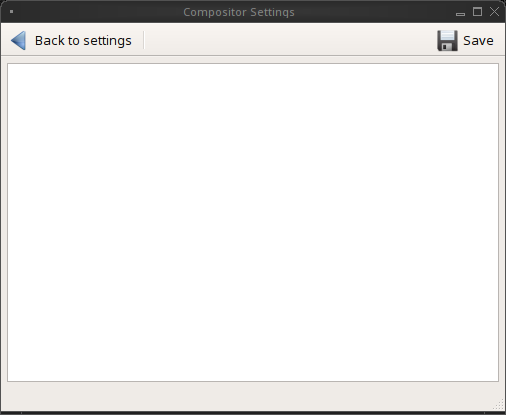
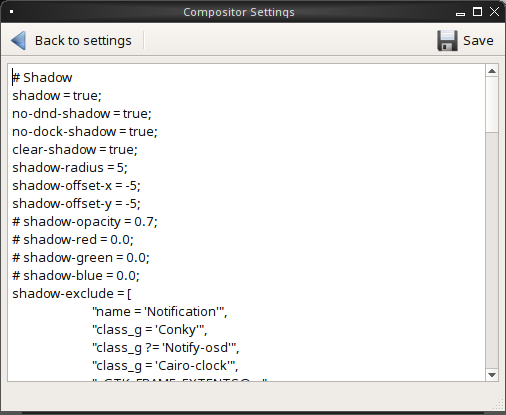
Final review luminaconfig.rst & - Reviewed luminaconfig.rst with Ken. - Made numerous accuracy and clarity changes. - Updated lumina28.png to reflect the compositor more clearly.

diff --git a/1.0luminadocumentation/luminaconfig.rst b/1.0luminadocumentation/luminaconfig.rst
@@ -10,7 +10,9 @@ used to configure every aspect of the desktop and is the recommended way
 to make changes. To launch this utility, click the start menu then 
 :menuselection:`Preferences --> Configure Desktop`, right-click the 
 desktop and click :menuselection:`Preferences --> Desktop`, or type 
-:command:`lumina-config` from an xterm.
+:command:`lumina-config` from an xterm. If all those options are 
+unavailable, the "Desktop Configuration" application (under the 
+"Utilities" category) will also open the configuration utility.
 
 .. _lumina3d:
 
@@ -95,10 +97,6 @@ the wallpaper selection drop-down menu.
 
 .. figure:: images/lumina16b.png
    :scale: 100%
-
-.. TODO: Go over Window Effects with Kenny to be sure I updated Lumina 
-   properly (screenshot may be missing some options). image: lumina28 
-   can be modified without archival.
    
 The "Window Effects" option, shown in 
 :numref:`Figure %s: Window Effects <lumina28>`, is used to add or alter 
@@ -111,7 +109,7 @@ manually.
 .. figure:: images/lumina28.png
    :scale: 100%
 
-The "Window System" tab, shown in :numref:`Figure %s: Session Window System Tab <lumina22c>`,
+The "Window Manager", shown in :numref:`Figure %s: Session Window Manager <lumina22c>`,
 contains various configuration options for the window manager.
 
 .. _lumina22c:
@@ -137,10 +135,7 @@ Drop-down menus are provided for configuring the following:
 
 The Advanced Editor, seen in :numref:`Figure %s: Window Manager - Advanced <lumina29>`
 , allows you to manually adjust every setting related to the display of 
-windows on your system. For example, if you prefer a particular theme, 
-but don't care for the theme's transparency effects, you can use the 
-Advanced Editor to adjust the specific transparency value to your 
-preference.
+windows on your system.
 
 .. _lumina29:
 
@@ -255,7 +250,7 @@ Interface Configuration
 
 The "Interface Configuration" option, seen here as 
 :numref:`Figure %s: Lumina Interface Configuration <lumina31>`, is used 
-to configure the context (right-click) menu, desktop icons, and floating 
+to configure the context (right-click menu), desktop icons, and floating 
 panels.
 
 .. _lumina31:
@@ -275,9 +270,10 @@ Applications, a Separator, and Settings.
 
 Select "Desktop Icons and Plugins" to modify what appears on the current
 primary desktop. By default, the RSS Reader plugin will appear in the 
-lower right corner. The following options are also available when you 
-right-click an icon on the desktop, allowing you to customize the 
-location and appearance of desktop icons: 
+lower right corner. 
+
+Many customization options are available after right-clicking an icon on
+the desktop: 
 
 * **Start Moving Item:** Click the icon to lock it in place once you 
   have moved it to the desired location.
@@ -379,8 +375,10 @@ The user can select to automatically enable numlock, play chimes when
 Lumina starts or exits, and change the icon that appears in the login 
 menu and the start menu button. There are also options to set the time 
 and date format, as well as the time display format (via drop menu). 
-Buttons are available to reset these options to either the system 
-defaults or Lumina defaults.
+Additionally, a user can reset **all** their desktop settings via 
+:guilabel:`Return to system defaults`, which returns Lumina to the 
+defaults created by the OS, while :guilabel:`Return to Lumina defaults` 
+returns to the Lumina created settings.
 
 The "Localization Settings" option is shown in 
 :numref:`Figure %s: Session Locale Tab <lumina21c>`.
@@ -390,21 +388,16 @@ The "Localization Settings" option is shown in
 .. figure:: images/lumina21c.png
    :scale: 100%
 
-.. TODO: Determine if lumina-i18n is still used is Lumina 1.0.
-
 The lumina-i18n package provides localization files. Once installed, 
 this allows you to customize which locale is used for the various items 
 listed in :numref:`Figure %s: Session Locale Tab <lumina21c>`. To 
 install this package on a PC-BSD or FreeBSD system, use 
 :command:`sudo pkg install lumina-i18n`. On other operating systems, use
-the software management tool that comes with the operating system. If 
-the Lumina Configuration utility was open before the installation, 
-restart it so that the list of localizations can be loaded into the 
-drop-down menus of this screen. Since each setting has its own drop-down
-menu, you have the flexibility to select different locales for each item
-shown in this screen. Note that if you make any changes in the "Locale" 
-tab, click the "Save Changes" button and restart Lumina so the 
-configured locales can be loaded.
+the software management tool that comes with the operating system. Since
+each setting has its own drop-down menu, you have the flexibility to 
+select different locales for each item shown in this screen. Note that 
+if you make any changes in the "Locale" tab, click the "Save Changes" 
+button and restart Lumina so the configured locales can be loaded.
 
 Installing the lumina-i18n package will also add a drop-down menu to the
 "Preferences" of the start menu, though you will need to restart Lumina 
@@ -412,9 +405,9 @@ after the package installation in order for the locale menu to appear in
 "Preferences". This drop-down menu can be used to temporarily change the
 locale for this session only. This will immediately change the 
 localization of any translated menu items on the fly so that you do not 
-have to log back into the Lumina session.
+have to log back into the current session.
 
-.. note:: Any menu items that continue to be displayed in English have 
-          not been translated to the selected language yet. You can 
-          assist the Lumina Project in translating menu items using the
-          instructions in :ref:`Interface Translation`.
+.. note:: If using Lumina with a language other than English, any menu 
+          items that continue to be displayed in English have not yet 
+          been translated to the selected language. To assist the Lumina
+          Project in translating menu items, see :ref:`Interface Translation`.
